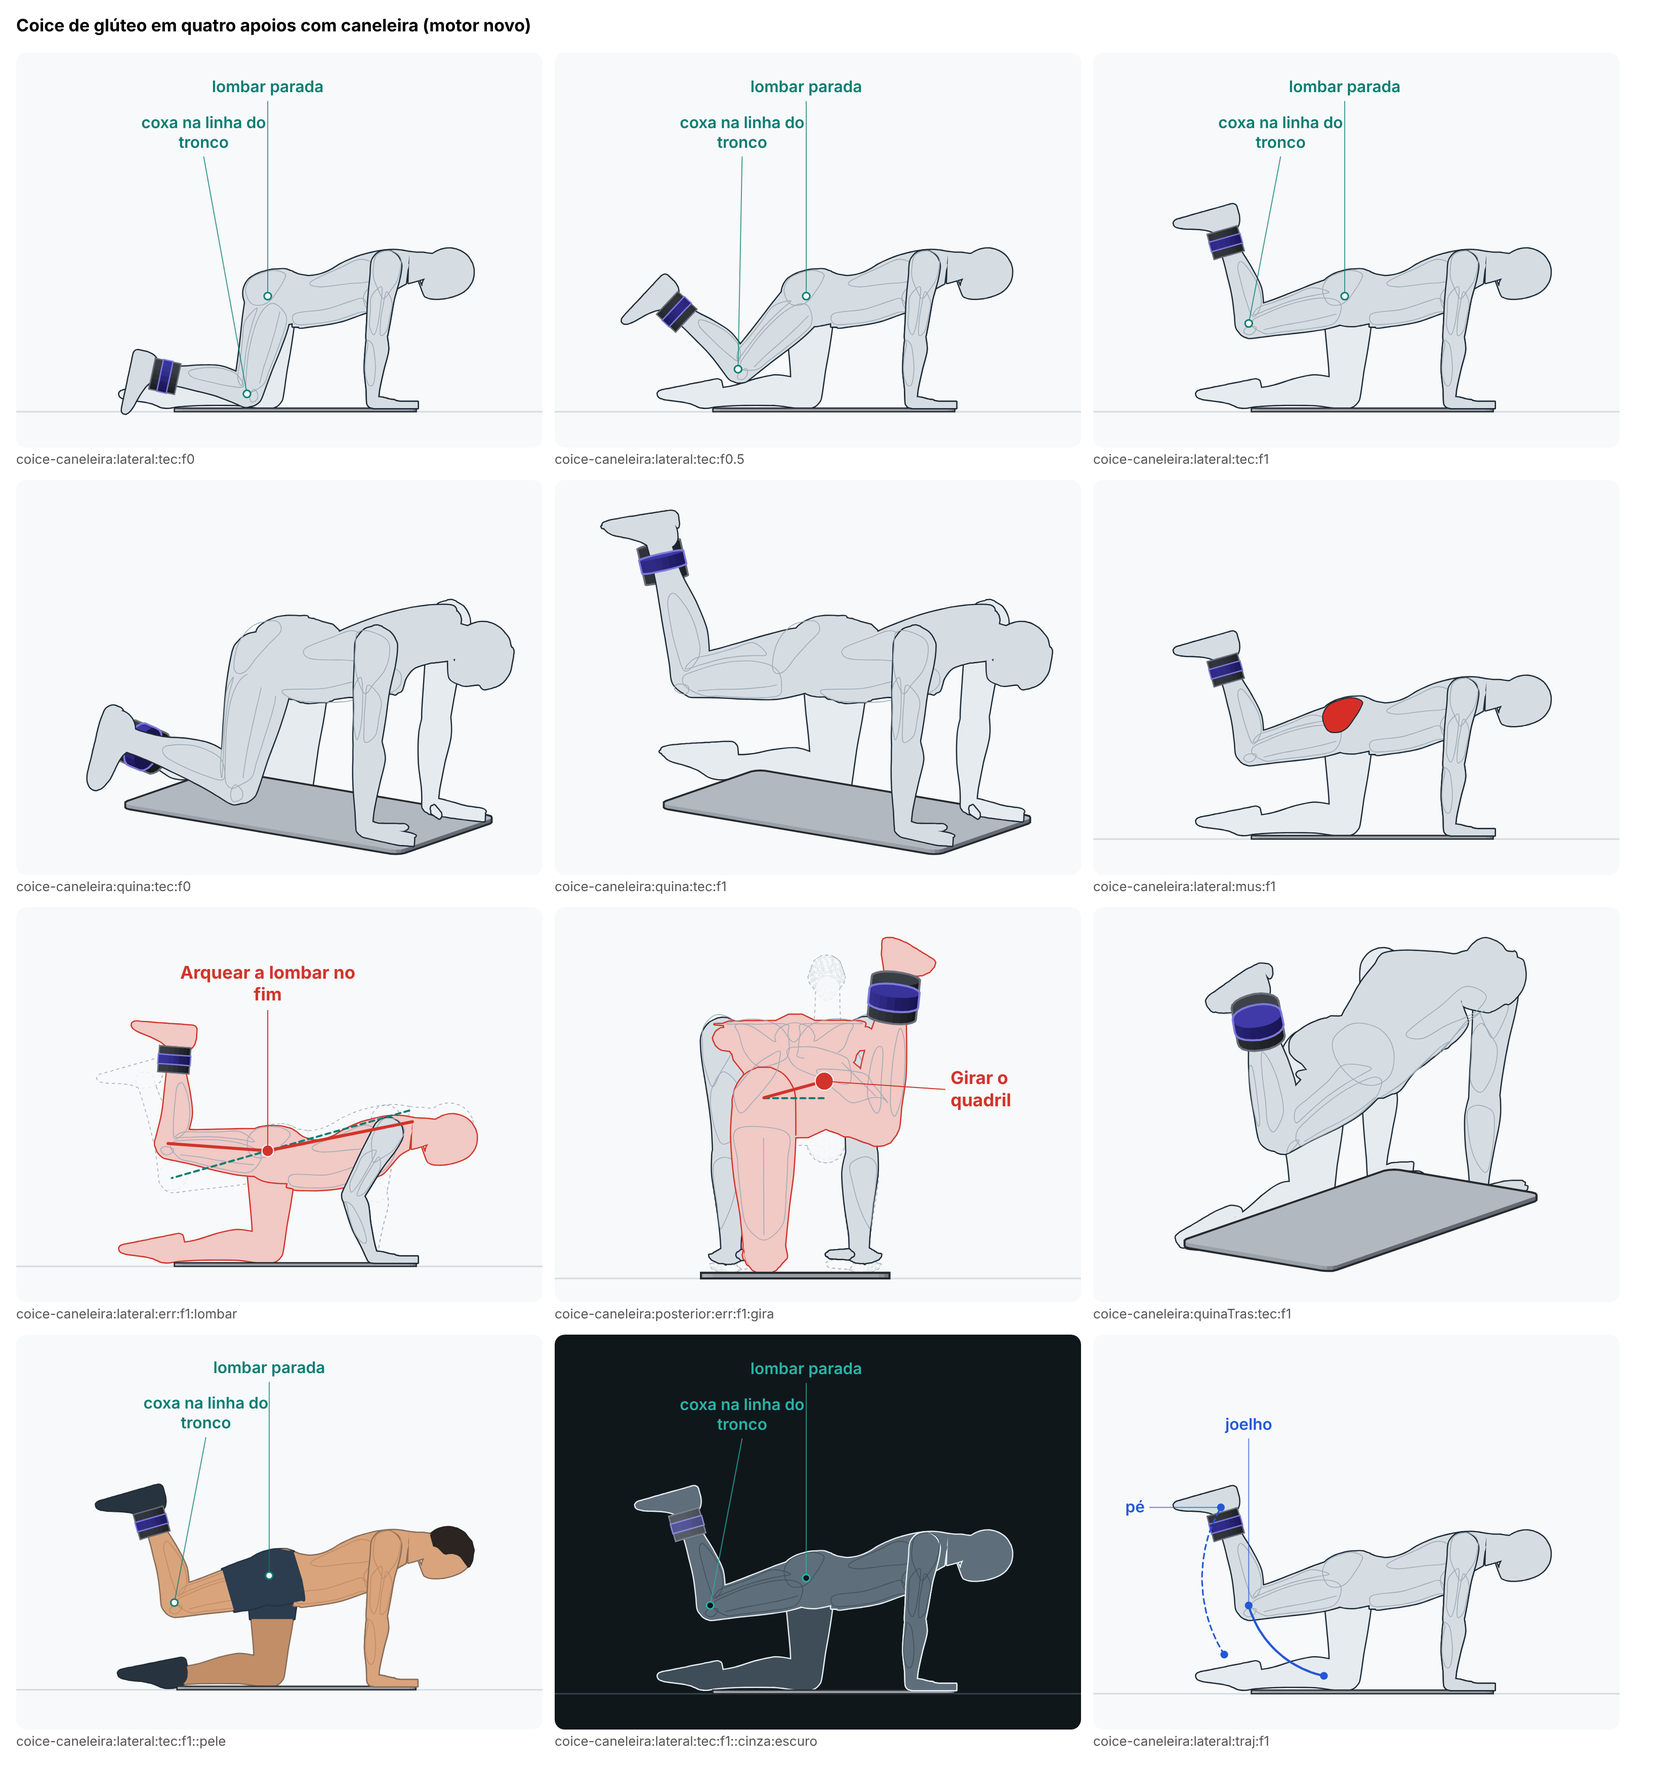
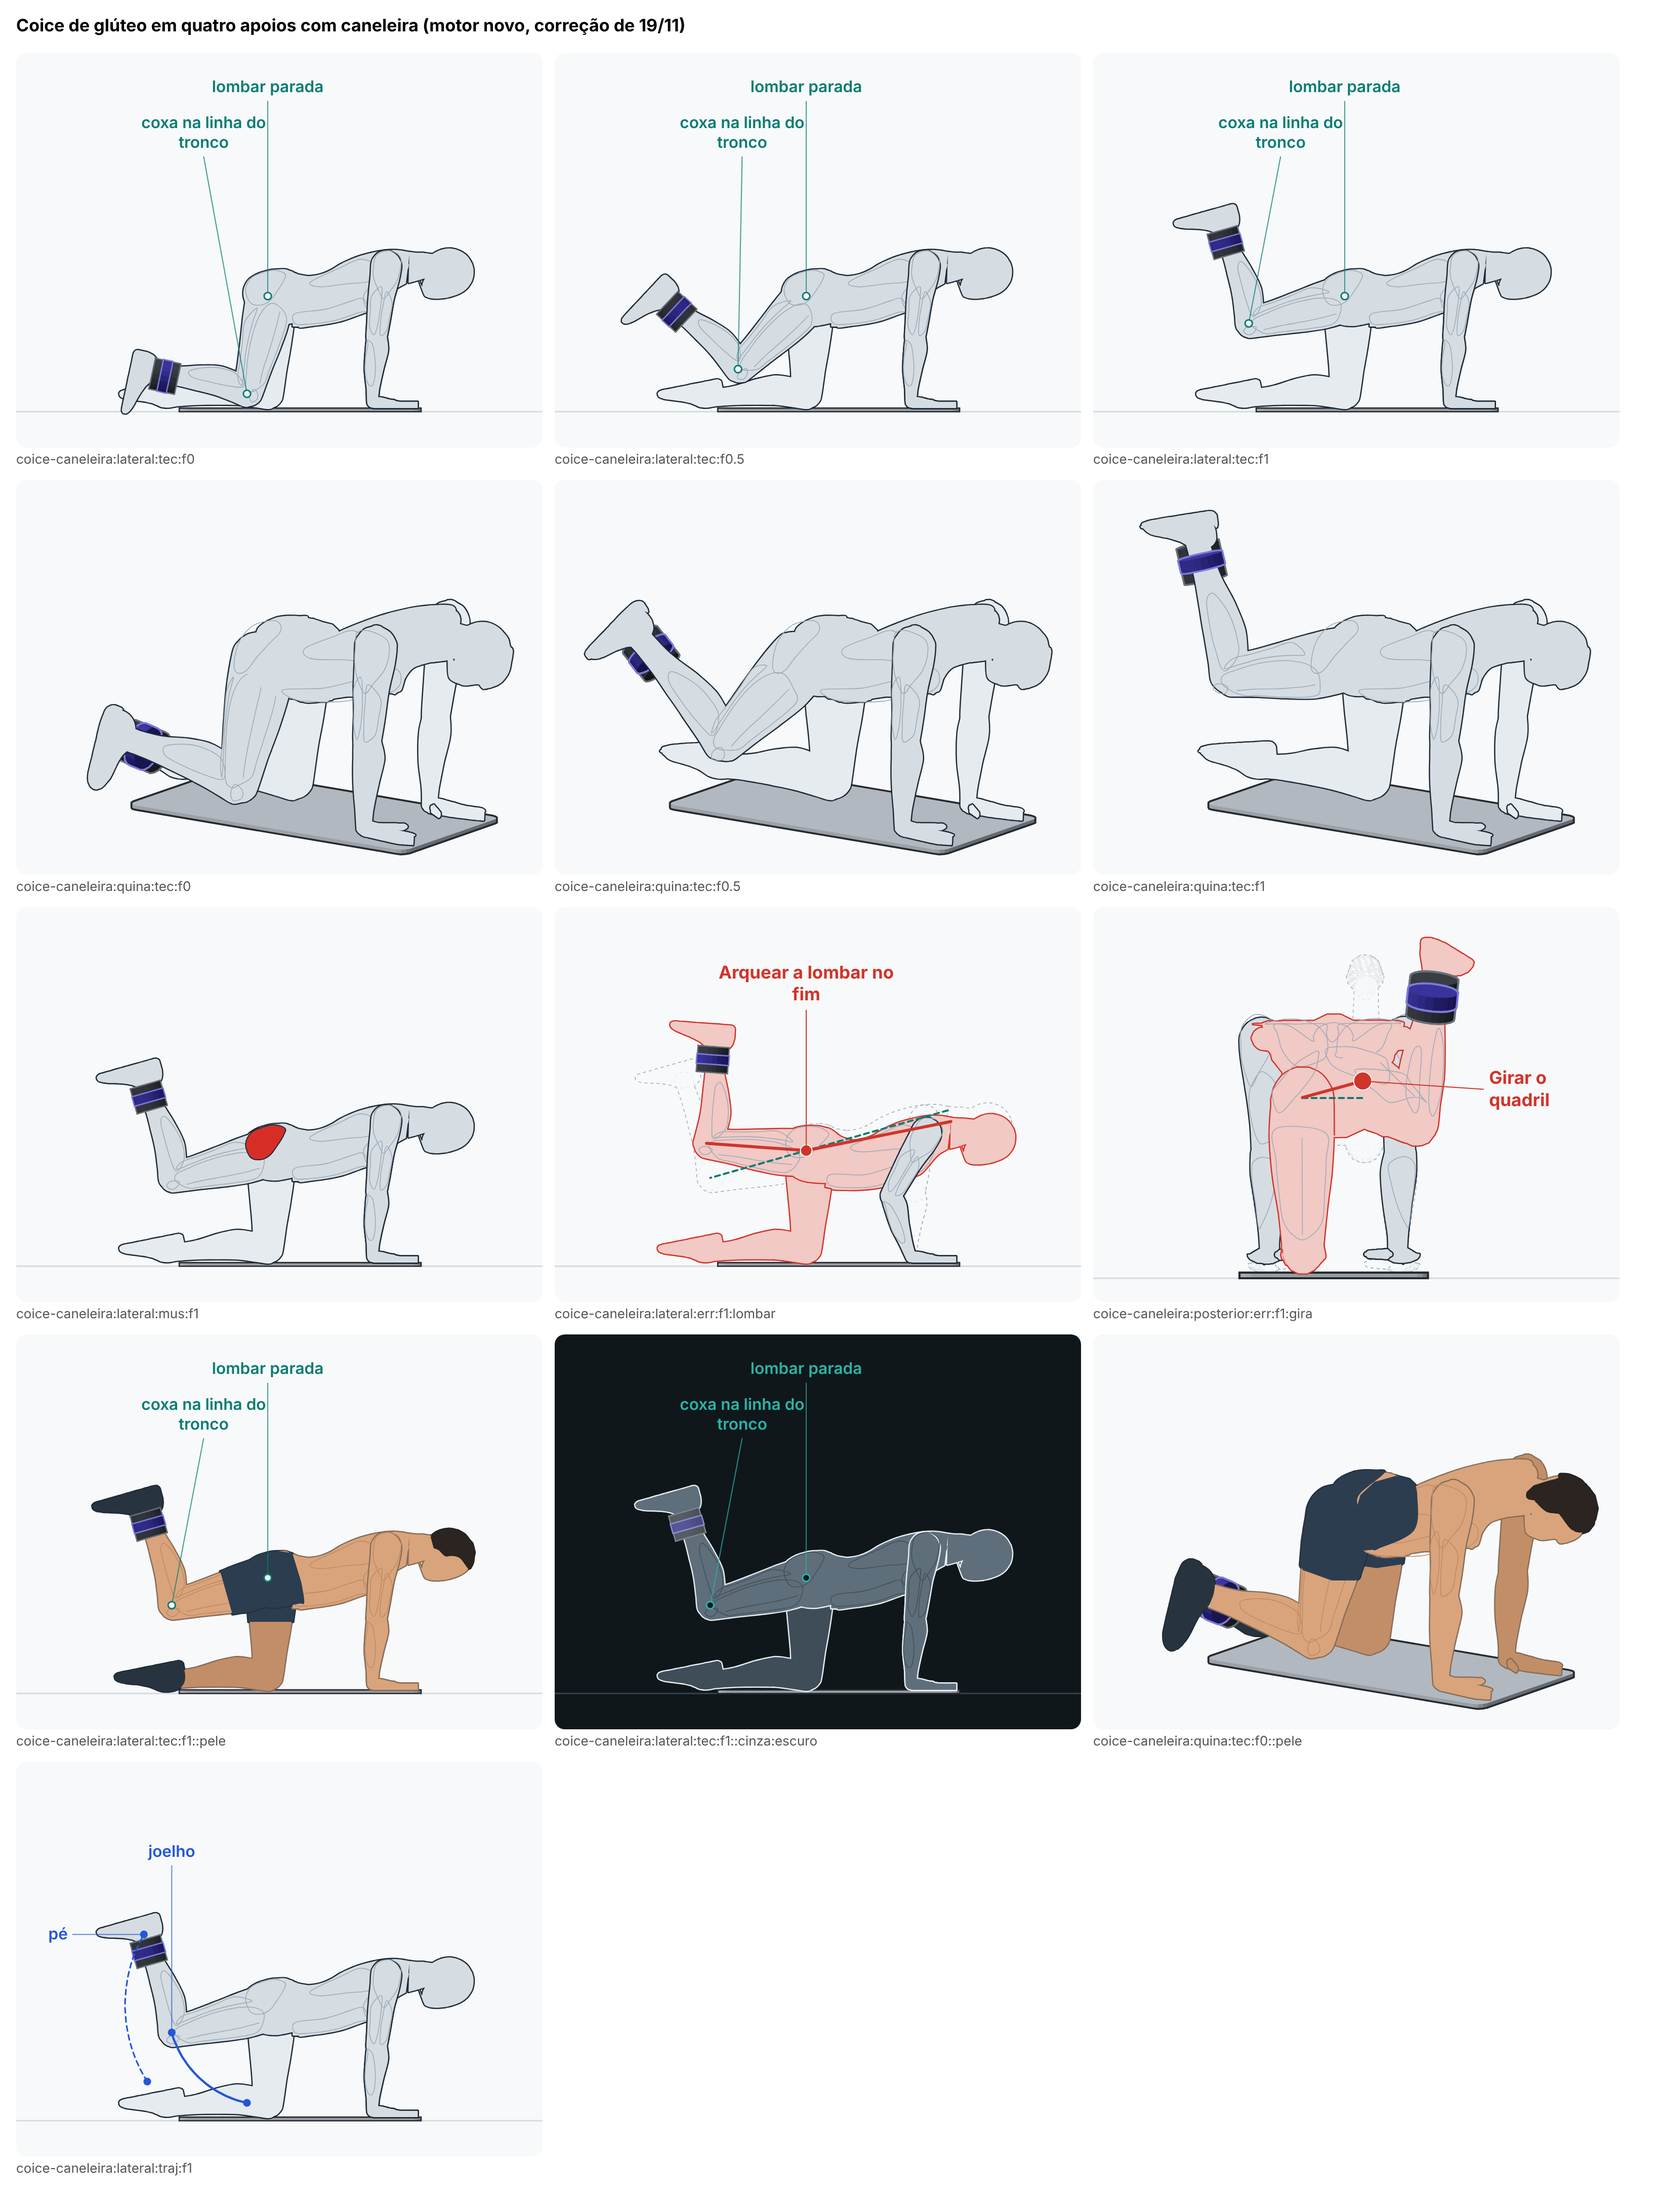
Corrige o colchonete por cima da perna de apoio no coice com caneleira
De três quartos, o colchonete cobria o joelho e a canela da perna de
apoio, a de longe. Liga a opção noFundo do colchonete e o leva 2 cm para
a frente, como no coice com elástico. Regra nova
coice-caneleira-colchonete-embaixo.

Claude-Session: https://claude.ai/code/session_01YRzts8DBGbsca9onebcMt1

diff --git a/src/engine/novo/regras/quatro-apoios.ts b/src/engine/novo/regras/quatro-apoios.ts
@@ -5,6 +5,7 @@ import { formaDoBoneco, pontosDoBoneco } from '../boneco';
 import { angulosDoLado, f1, faixa } from '../conferir-util';
 import type { Regra } from '../conferir-util';
 import type { Esq, Lado } from '../esqueleto';
+import { coiceCaneleira } from '../exercicios/coice-caneleira';
 import { coiceElastico } from '../exercicios/coice-elastico';
 import type { Exercicio, Quadro } from '../movimento';
 import { obj } from '../tabelas';
@@ -93,6 +94,7 @@ function colchoneteEmbaixo(exercicio: () => Exercicio): Regra {
 
 export const REGRAS_QUATRO_APOIOS: Record<string, Regra> = {
   'coice-elastico-colchonete-embaixo': colchoneteEmbaixo(() => coiceElastico),
+  'coice-caneleira-colchonete-embaixo': colchoneteEmbaixo(() => coiceCaneleira),
   'quatro-apoios-maos-e-joelhos': (q) => {
     const x = q[0]!,
       e = x.esq;

diff --git a/src/engine/novo/exercicios/coice-caneleira.ts b/src/engine/novo/exercicios/coice-caneleira.ts
@@ -59,7 +59,7 @@ function quadro(corpo: Corpo, u: number, erro?: string): Quadro {
   return {
     esq: e,
     prims: [chao(-70, 70, -90, 110), ...colchonete(0, zCol), ...peca.prims],
-    pecas: [{ t: 'colchonete', x0: 0, z0: zCol }, peca.peca],
+    pecas: [{ t: 'colchonete', x0: 0, z0: zCol, noFundo: true }, peca.peca],
     fios: [],
     cargas: [{ massa: f('caneleira.massa'), pos: can.centro }],
     marcas: { piso: [0, O.piso, 0], caneleira: can.centro, caneleiraRaio: [can.raio, 0, 0] },

diff --git a/docs/revisoes/animacao-nova/lote-A4/coice-caneleira.md b/docs/revisoes/animacao-nova/lote-A4/coice-caneleira.md
@@ -59,3 +59,23 @@ O cartão tem três erros. Dois viraram desenho, na ordem do app (os do coice co
 - **As pontas dos pés passam da ponta de trás do colchonete** (100 cm, medida provisória da tabela), como no coice com elástico.
 - **As costas sobem 15,8° para os ombros** (as proporções com "mãos sob os ombros, joelhos sob o quadril"), como no coice com elástico.
 - **O rótulo "coxa na linha do tronco"** aponta para o joelho, que no começo está embaixo: o texto fala do fim do movimento (o mesmo do coice com elástico).
+
+## Correção de 19/11 (auditoria)
+
+A auditoria das fases A e B (G2) achou que, de três quartos, o colchonete cobria o joelho e o começo da canela da perna de apoio, a de longe, em todo o ciclo. **Causa:** a mesma do coice com elástico: o colchonete é um item só, pintado pela profundidade do meio dele, e a perna de longe é pintada atrás do corpo.
+
+**O que mudou.** O colchonete liga a opção nova `noFundo` da peça comum (pintado na profundidade do canto mais longe), e `colchonete.recua` passou de −13 para −11 cm, como no coice com elástico (com −13, a ponta dos dedos passava 0,7 cm da ponta da frente do colchonete). A regra nova `coice-caneleira-colchonete-embaixo` mede, em cada vista do guia, quanto cada parte do corpo, dos dois lados, é pintada à frente do colchonete, e a folga da mão e do joelho que apoiam até a borda.
+
+**Antes → depois** (pior quadro, cm de pintura à frente do colchonete; negativo = coberto):
+
+| vista | tronco e perna direita | perna esquerda (a de apoio) | braço direito | braço esquerdo |
+|---|---|---|---|---|
+| três quartos | 29,0 → 75,8 | −23,3 → 23,5 | 36,5 → 83,3 | 10,7 → 57,5 |
+| lateral | 0,0 → 25,0 | −8,3 → 16,7 | 16,2 → 41,2 | −16,6 → 8,4 |
+| por trás (erro "Girar o quadril") | −28,2 → 21,8 | −28,2 → 21,8 | −35,3 → 14,7 | −35,4 → 14,6 |
+
+Mãos 1,3 cm para dentro da borda (antes, −0,7); joelhos 14,2 e 13,7. A regra falha no estado antigo e passa no novo; a conferência automática dá 0 falha e os mesmos 3 avisos.
+
+Como a ordem de pintura é medida (a regra nova, com o núcleo em `src/engine/novo/regras/ordem-de-pintura.ts`): em cada vista do guia (as do exercício e as dos erros), a cada 3 quadros do movimento certo e em cada erro no começo, no meio e no fim, um raio sai de cada ponto do eixo da peça até quem olha e de cada ponto da pele virada para quem olha (a 85% do raio) até quem olha; se ele atravessa o corpo (os dois lados, cada grupo à parte), aquela parte do corpo tem de ser pintada depois do item que pinta a peça; se atravessa a peça, antes. A folga é a diferença de profundidade de pintura (cm; negativa = ordem errada). Contam só os cruzamentos de 4 pontos ou mais; a pele que fica dentro de outra parte do corpo ou dentro da própria peça não conta; quando a mesma parte esconde e é escondida pela mesma peça, vale o lado com mais pontos.
+
+**O que ainda não ficou bom.** O pé de apoio continua além da ponta de trás do colchonete (o pequeno da auditoria), agora 2 cm a mais: o colchonete de 100 cm (provisório) não cabe o corpo inteiro de quatro apoios.
